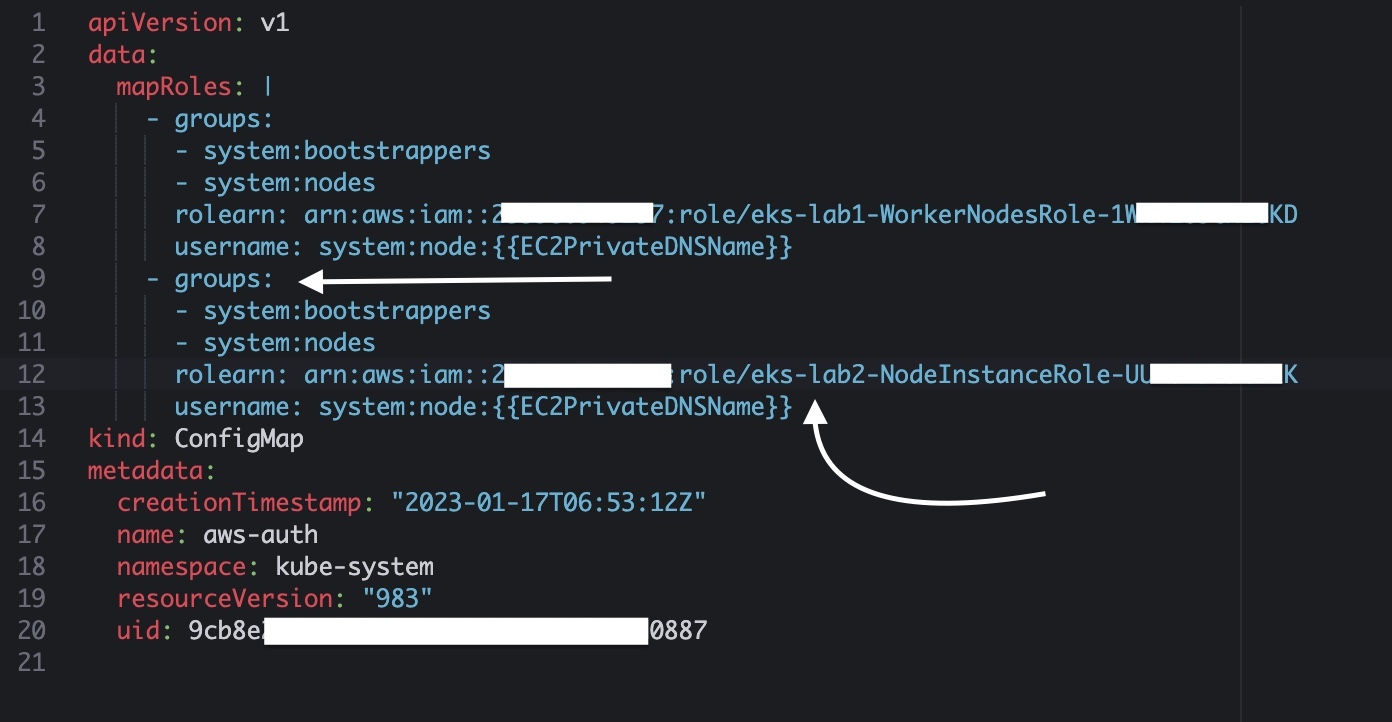
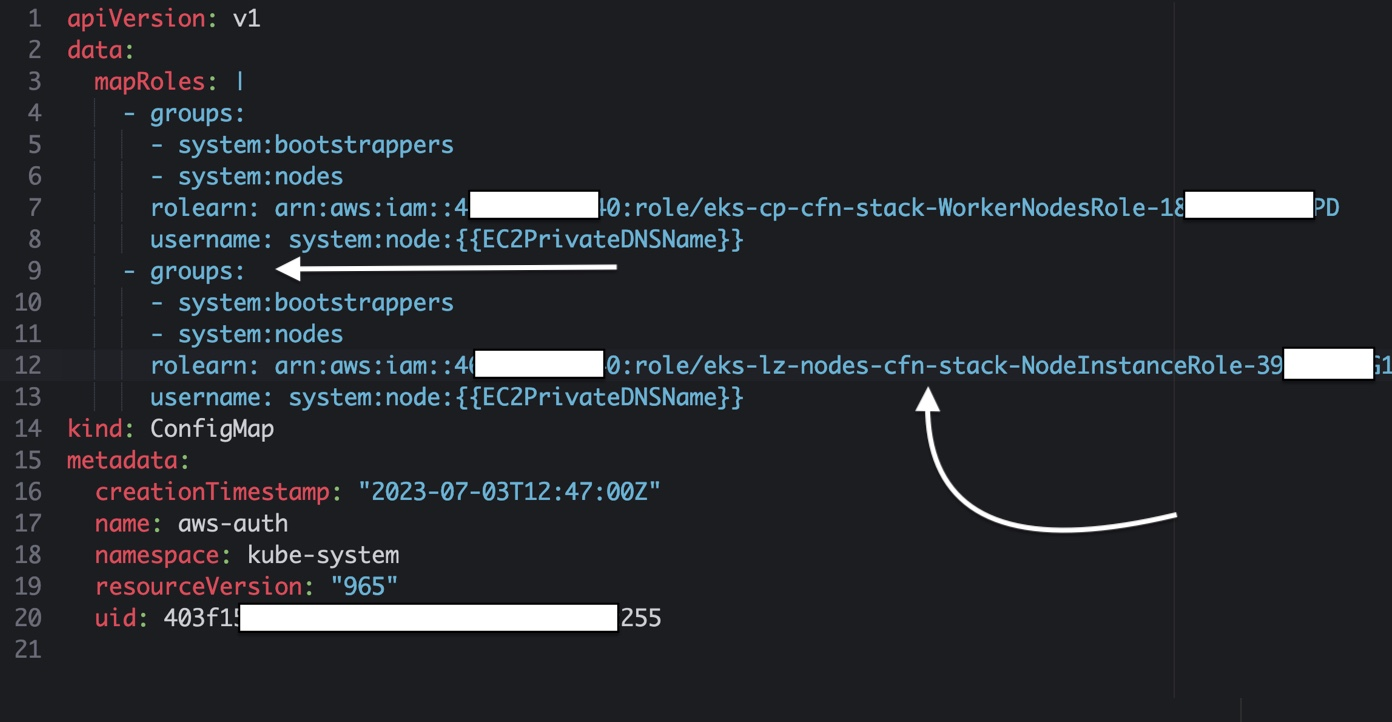
Initial commit

Changed region(s): [[0.0, 0.0, 1.0, 0.9446], [0.7414, 0.7008, 0.8649, 0.7618]]

diff --git a/README.md b/README.md
@@ -35,7 +35,7 @@ When you are connecting to the Local Zone, the request is served by the [ALB in 
 
 For the backup site in the Region, there is an ALB and Kubernetes pods running on a [managed node group](https://docs.aws.amazon.com/eks/latest/userguide/managed-node-groups.html). The backup game is used for High Availability that makes it easy for IT administrators to set up, operate, and scale in the cloud.
 
-![architecture](/assets/architecture.jpg)
+![architecture](/assets/arch2.jpg)
 
 
 ## Amazon EKS Cluster Deployment using Local Zones
@@ -50,6 +50,9 @@ For the application deployment, we use the combination of CloudFormation YAML fi
 > It is important to create the Amazon EKS cluster with a [dedicated IAM role](https://aws.github.io/aws-eks-best-practices/security/docs/iam/#create-the-cluster-with-a-dedicated-iam-role) and regularly audit who can assume this role.
 
 - A shell environment. An IDE (Integrated Development Environment) environment such as Visual Studio Code or AWS Cloud9 is recommended.
+
+>**Note** 
+>Important note for developers: All commands mentioned in the instructions were tested using Cloud9 using the Amazon Linux 2 as a platform. If you encounter any issues while working with a different operating system, please verify the applicability of the command to your specific operating system. Some commands may have variations or different syntax depending on the OS in use. Ensure compatibility and make any necessary adjustments before executing the commands on your system. 
 
 - Installation of the latest version AWS Command Line Interface (AWS CLI) (v2 recommended), kubectl, eksctl, 
 
@@ -72,8 +75,8 @@ mkdir -p $HOME/bin && cp ./kubectl $HOME/bin/kubectl && export PATH=$HOME/bin:$P
 echo 'export PATH=$PATH:$HOME/bin' >~/.bash_profile
 kubectl version --short --client
 
-#create an EC2 key pair
-aws ec2 create-key-pair --key-name ws-default-keypair --query 'KeyMaterial' --output text > MyKeyPair.pem
+#create an EC2 key pair -Optional, if you decided to use existing one please make sure to update the CloudFormation parameter KeyPairName-
+aws ec2 create-key-pair --key-name eks-keypair --region us-west-2 --query 'KeyMaterial' --output text > MyKeyPair.pem
 ```
 - Assume role, using AWS Identity and Access Management (AWS IAM) Role, the following commands help to assume role as you need to configure IAM user `hybrid-eks-user` policy, update role `hybrid-eks-user-role` trust policy then assume role.
 
@@ -149,7 +152,7 @@ export AWS_SESSION_TOKEN=<CCCC>
   --stack-name eks-cp-cfn-stack \
   --template-body file://eks-cluster.yaml \
   --capabilities CAPABILITY_NAMED_IAM CAPABILITY_AUTO_EXPAND \
-  --parameters ParameterKey=EKSClusterName,ParameterValue=eks-cluster ParameterKey=NumWorkerNodes,ParameterValue=2  ParameterKey=KeyPairName,ParameterValue=ws-default-keypair
+  --parameters ParameterKey=EKSClusterName,ParameterValue=eks-cluster ParameterKey=NumWorkerNodes,ParameterValue=2  ParameterKey=KeyPairName,ParameterValue=eks-keypair ParameterKey=Region,ParameterValue=us-west-2 ParameterKey=LocalZones,ParameterValue=us-west-2-lax-1a
 ```
 
 >**Note**
@@ -233,25 +236,7 @@ ClusterControlPlaneSecurityGroup=$(aws cloudformation describe-stacks --stack-na
 
 #### Step 3: Installing the AWS Load Balancer Controller add-on
 
- 1. Enable the communication between both managed nodes in the Region and self-managed nodes in the Local Zone.
-
-```bash
-ManagedWorkerNodesSecurityGroup=$(aws cloudformation describe-stacks --stack-name "eks-cp-cfn-stack" --region "us-west-2" --query 'Stacks[0].Outputs[?OutputKey==`ManagedWorkerNodesSecurityGroup`].OutputValue' --output text)
-SelfManagedWorkerNodesSecurityGroup=$(aws cloudformation describe-stacks --stack-name "eks-lz-nodes-cfn-stack" --region "us-west-2" --query 'Stacks[0].Outputs[?OutputKey==`NodeSecurityGroup`].OutputValue' --output text)
-
-aws ec2 authorize-security-group-ingress \
-    --group-id $ManagedWorkerNodesSecurityGroup \
-    --protocol -1 \
-    --port -1 \
-    --source-group $SelfManagedWorkerNodesSecurityGroup
-aws ec2 authorize-security-group-ingress \
-    --group-id $SelfManagedWorkerNodesSecurityGroup \
-    --protocol -1 \
-    --port -1 \
-    --source-group $ManagedWorkerNodesSecurityGroup
-```
-
- 2. Creating an AWS Identity and Access Management (IAM) OpenID Connect (OIDC) provider for your cluster.
+ 1. Creating an AWS Identity and Access Management (IAM) OpenID Connect (OIDC) provider for your cluster.
 
    Amazon EKS supports using OpenID Connect (OIDC) identity providers as a method to authenticate users to your cluster, further [details](https://docs.aws.amazon.com/eks/latest/userguide/authenticate-oidc-identity-provider.html)
 
@@ -268,7 +253,7 @@ aws ec2 authorize-security-group-ingress \
  eksctl utils associate-iam-oidc-provider --cluster eks-cluster --approve
 ```
 
- 3. Deploy the AWS Load Balancer Controller to an Amazon EKS cluster
+ 2. Deploy the AWS Load Balancer Controller to an Amazon EKS cluster
 
    - Create an IAM policy using the policy downloaded in the previous step.
 
@@ -389,8 +374,9 @@ aws-load-balancer-controller   1/1     1            1          84s
  The example output is as follows.
 
 >```bash
->NAME           CLASS    HOSTS   ADDRESS                                                                   PORTS   AGE
->ingress-2048   <none>   *       k8s-game2048-ingress2-xxxxxxxxxx-yyyyyyyyyy.region-code.elb.amazonaws.com   80      2m32s
+>NAME                  CLASS   HOSTS   ADDRESS                                                                  PORTS   AGE
+>ingress-2048-backup   alb     *       k8s-game2048-ingress2-XXXXX.us-west-2.elb.amazonaws.com   80      7m
+>ingress-2048-lz   alb     *       k8s-game2048-ingress2-YYYYYY.us-west-2.elb.amazonaws.com   80      2m
 >```
 
 
@@ -405,7 +391,7 @@ aws-load-balancer-controller   1/1     1            1          84s
 >
 >- Installing the AWS Load Balancer Controller add-on further [details](https://docs.aws.amazon.com/eks/latest/userguide/aws-load-balancer-controller.html)
 
-## Troubleshooting
+#### Troubleshooting
 
 If you encounter a situation where you are unable to obtain an address for a test games, it may be helpful to troubleshoot the AWS Load Balancer Controller. One possible solution is to delete the controller using the full pod name. To do this, you can run the following command: 
 
@@ -416,38 +402,41 @@ If you encounter a situation where you are unable to obtain an address for a tes
 
 Replace <aws-loadbalancer-controller-pod> with the full name of the AWS Load Balancer Controller pod.
 
+#### Step 5: Route 53 **Optional**
+
+Assuming you have a public domain defined under Amazon Route 53 [Hosted Zones](https://docs.aws.amazon.com/Route53/latest/DeveloperGuide/CreatingHostedZone.html), we have a complementary CloudFormation stack that can help you create [failover alias records values](https://docs.aws.amazon.com/Route53/latest/DeveloperGuide/resource-record-sets-values-failover.html), configure Amazon Route 53 [health checks](https://docs.aws.amazon.com/Route53/latest/DeveloperGuide/dns-failover.html), and set up DNS failover.
+
+To configure the CloudFormation stack, we require some input details. Firstly, please provide the Hosted Zone ID for the domain name. This ID represents the domain for which you have administrative control and can manage DNS records. Once we have the Hosted Zone ID, we can proceed with the configuration.
+
+In addition, we need you to input the LZ DNS name. This should correspond to the ingress resource address we created in the previous step, specifically for `get ingress/ingress-2048-lz`. The LZ DNS name will be used for the primary failover record set. Please ensure to include a period (.) at the end of the LZ DNS name to make it fully qualified.
+
+Similarly, we need the backup DNS name. This should correspond to the ingress resource address we created in the previous step for `ingress/ingress-2048-backup`. The backup DNS name will serve as the backup failover record set. Remember to include a period (.) at the end of the backup DNS name as well.
+
+By providing these inputs accurately, we can proceed with creating the CloudFormation stack to set up the failover alias records, configure health checks, and enable DNS failover for your domain.
+
+For example, have a look at the following input params:
+
+![Rout53](/assets/route53.jpeg)
+
 ## Clean up
 
 To terminate the resources that we created in this sample, as the following:
 
 - Detach polices from created roles **eks-lz-nodes-cfn-stack-NodeInstanceRole**-XXXXXX, **eks-cp-cfn-stack-WorkerNodesRole**-YYYYYY and **eks-cp-cfn-stack-ControlPlaneRole**-ZZZZZZ
 
-- Run the following
+- Run the following: 
+
 ```bash
 
 kubectl delete -f 2048_backup.yaml
 kubectl delete -f 2048_lz.yaml
 kubectl delete -f v2_4_7_ingclass.yaml
 
-# manually detach polices from created roles eks-lz-nodes-cfn-stack-NodeInstanceRole-<XXXXX> and eks-cp-cfn-stack-ControlPlaneRole-<XXXYYY>
-
-ManagedWorkerNodesSecurityGroup=$(aws cloudformation describe-stacks --stack-name "eks-cp-cfn-stack" --region "us-west-2" --query 'Stacks[0].Outputs[?OutputKey==`ManagedWorkerNodesSecurityGroup`].OutputValue' --output text)
-SelfManagedWorkerNodesSecurityGroup=$(aws cloudformation describe-stacks --stack-name "eks-lz-nodes-cfn-stack" --region "us-west-2" --query 'Stacks[0].Outputs[?OutputKey==`NodeSecurityGroup`].OutputValue' --output text)
-
-aws ec2 revoke-security-group-ingress \
-    --group-id $ManagedWorkerNodesSecurityGroup \
-    --protocol -1 \
-    --port -1 \
-    --source-group $SelfManagedWorkerNodesSecurityGroup
-aws ec2 revoke-security-group-ingress \
-    --group-id $SelfManagedWorkerNodesSecurityGroup \
-    --protocol -1 \
-    --port -1 \
-    --source-group $ManagedWorkerNodesSecurityGroup
-
+aws cloudformation delete-stack --stack-name eksctl-eks-cluster-addon-iamserviceaccount-kube-system-aws-load-balancer-controller
 aws cloudformation delete-stack --stack-name eks-lz-nodes-cfn-stack
 aws cloudformation delete-stack --stack-name eks-cp-cfn-stack
 
+#delete the Route53 stack if you went through this step
 ```
 
 Then, go to the Cloudformation console and make sure the stacks were deleted. Lastly, delete created user, policy and role assumed.
@@ -456,7 +445,7 @@ Then, go to the Cloudformation console and make sure the stacks were deleted. La
 
 Extending an Amazon EKS cluster to AWS Local Zones offers many benefits for organizations looking to improve the performance, availability, and resiliency of their containerized applications. With this configurations, you can leverage the low-latency access to compute and storage resources in geographically closer locations to your end-users or data sources.
 
-In this solution, we have covered the essential steps to extend an Amazon EKS cluster to Local Zones, this includes setting up Amazon EKS cluster, launching self-managed node in the Local Zone, joining the node in the Local Zone to the primary cluster, deploying a sample application.
+In this solution, we have covered the essential steps to extend an Amazon EKS cluster to Local Zones, this includes setting up Amazon EKS cluster, launching self-managed node in the Local Zone, joining the node in the Local Zone to the EKS cluster and deploying a sample application.
 
 By following these steps, you leveraged an Amazon EKS cluster that is highly available, fault-tolerant, and scalable while maintaining a centralized control plane. With this infrastructure, you can easily deploy and manage containerized applications in multiple locations, improving the user experience and reducing the risk of downtime.
 
